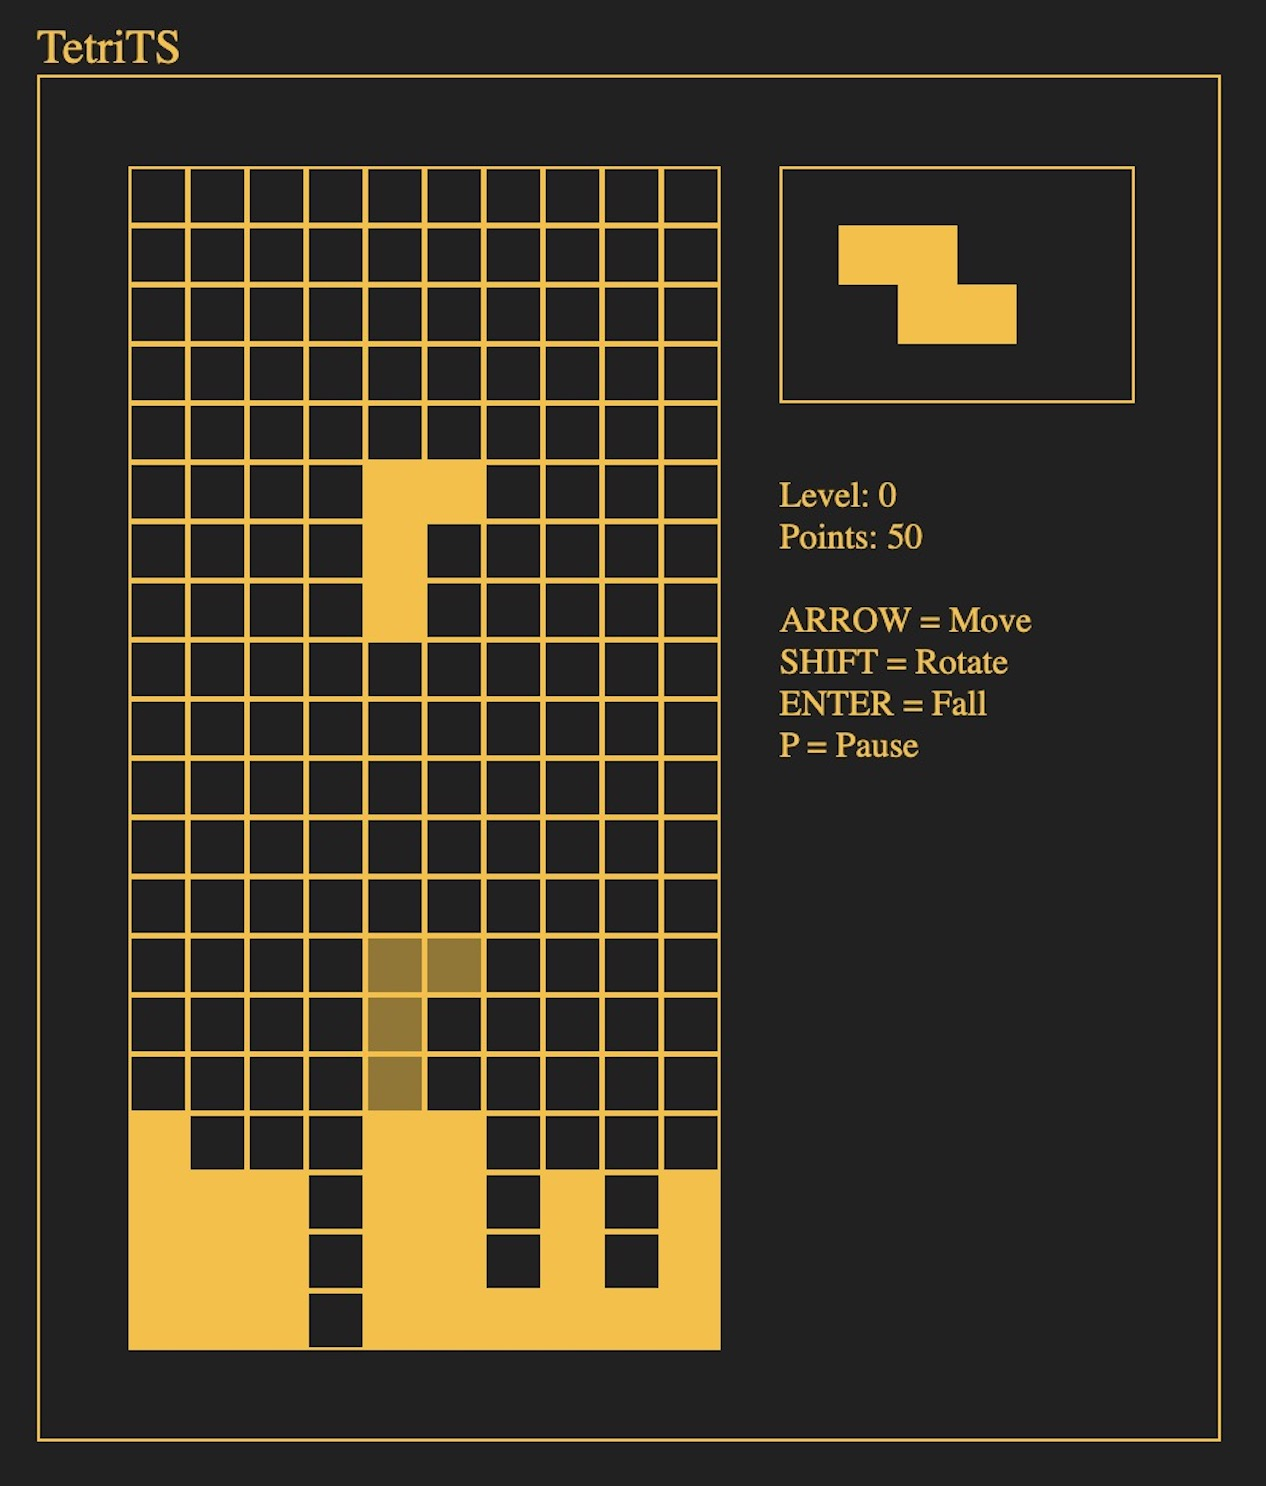
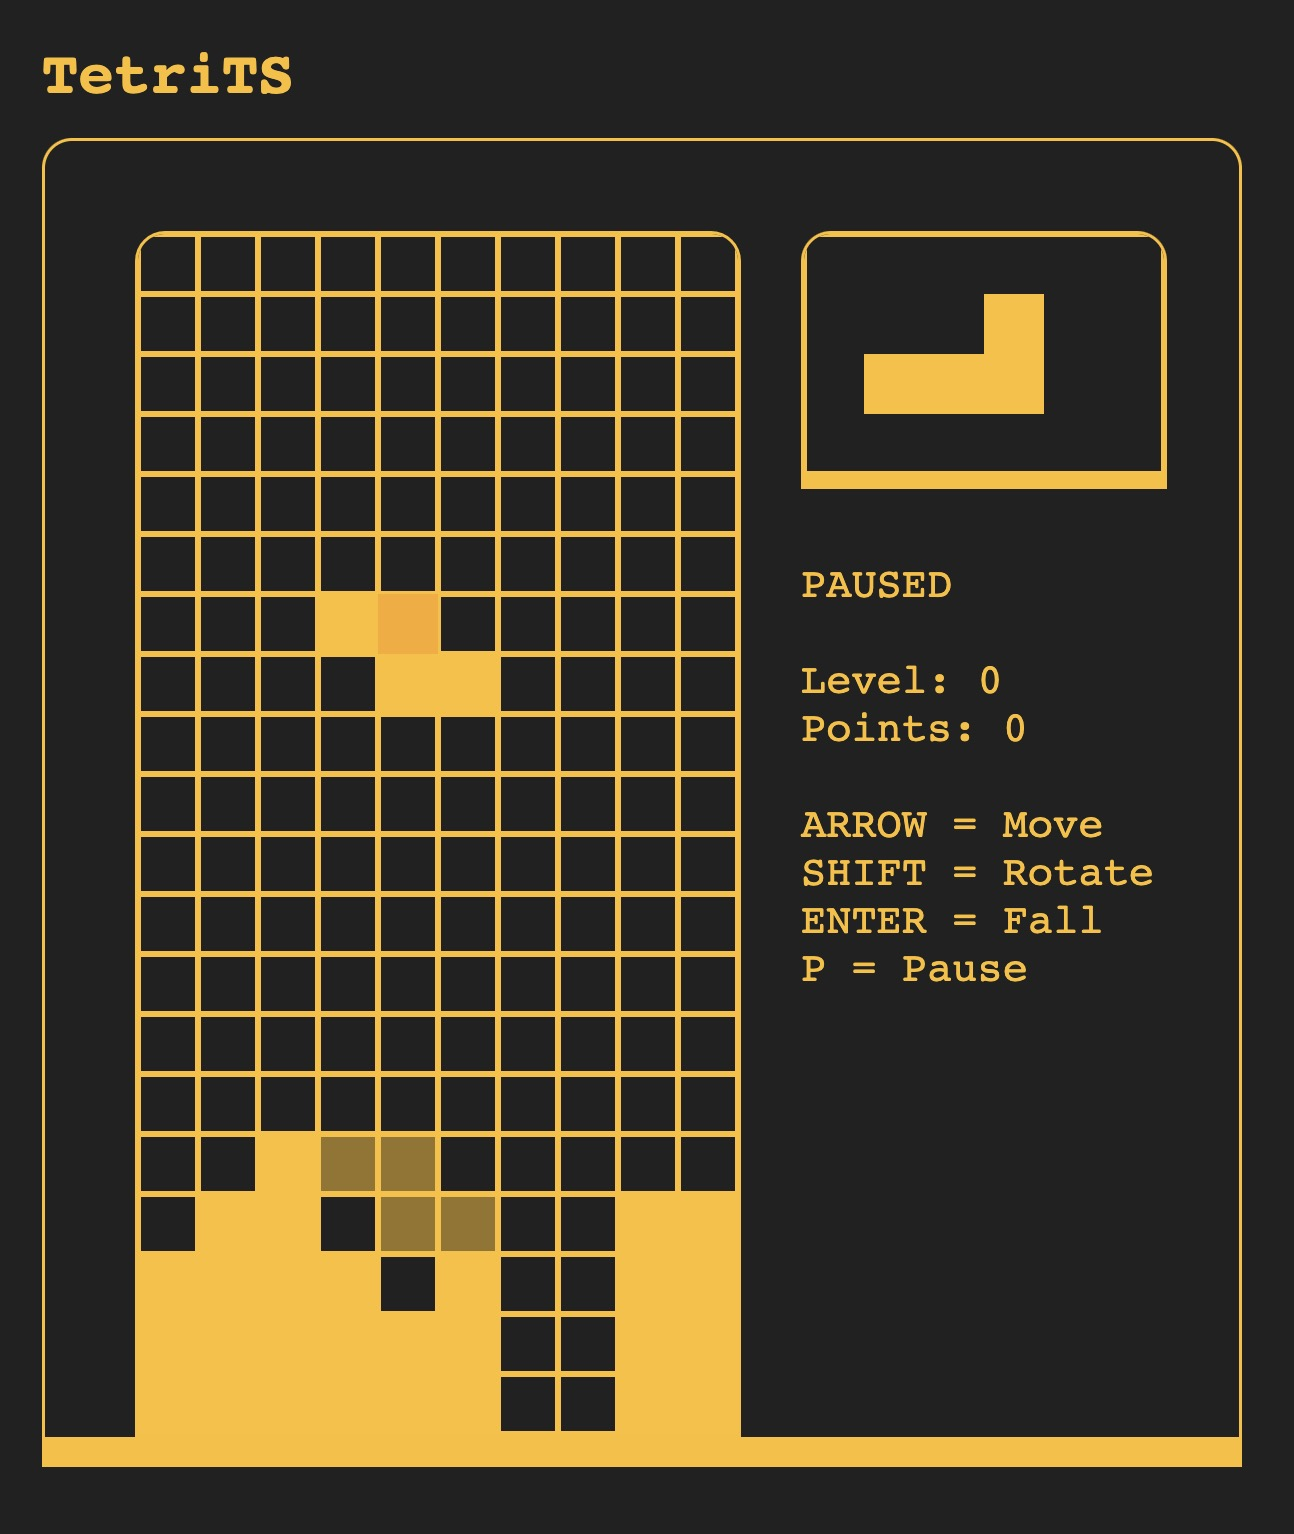
[NO-TICKET] feat: multiple improvements

Changed region(s): [[0.0, 0.0, 0.9858, 0.9906]]

diff --git a/docs/assets/index-a4646ecc.js b/docs/assets/index-a4646ecc.js
@@ -1,0 +1,9 @@
+var R=Object.defineProperty;var D=(s,t,e)=>t in s?R(s,t,{enumerable:!0,configurable:!0,writable:!0,value:e}):s[t]=e;var o=(s,t,e)=>(D(s,typeof t!="symbol"?t+"":t,e),e);(function(){const t=document.createElement("link").relList;if(t&&t.supports&&t.supports("modulepreload"))return;for(const i of document.querySelectorAll('link[rel="modulepreload"]'))r(i);new MutationObserver(i=>{for(const c of i)if(c.type==="childList")for(const d of c.addedNodes)d.tagName==="LINK"&&d.rel==="modulepreload"&&r(d)}).observe(document,{childList:!0,subtree:!0});function e(i){const c={};return i.integrity&&(c.integrity=i.integrity),i.referrerPolicy&&(c.referrerPolicy=i.referrerPolicy),i.crossOrigin==="use-credentials"?c.credentials="include":i.crossOrigin==="anonymous"?c.credentials="omit":c.credentials="same-origin",c}function r(i){if(i.ep)return;i.ep=!0;const c=e(i);fetch(i.href,c)}})();class l{}o(l,"infoBox",document.getElementById("infoBox")),o(l,"boardCanvas",document.getElementById("boardCanvas")),o(l,"UICanvas",document.getElementById("UICanvas")),o(l,"buttonLeft",document.getElementById("buttonLeft")),o(l,"buttonRight",document.getElementById("buttonRight")),o(l,"buttonRotate",document.getElementById("buttonRotate")),o(l,"buttonDown",document.getElementById("buttonDown")),o(l,"mobileControls",document.getElementById("mobileControls"));class w{constructor(){o(this,"isPressed",!1);o(this,"onCurrentFrame",!1)}get isPressedOnCurrentFrame(){return this.isPressed&&this.onCurrentFrame}}class f{static init(){this.isInitiated||(document.addEventListener("keydown",this.handleKeyDown.bind(this)),document.addEventListener("keyup",this.handleKeyUp.bind(this)),l.buttonLeft.addEventListener("touchstart",()=>this.handleTapStart("ArrowLeft")),l.buttonRight.addEventListener("touchstart",()=>this.handleTapStart("ArrowRight")),l.buttonDown.addEventListener("touchstart",()=>this.handleTapStart("ArrowDown")),l.buttonRotate.addEventListener("touchstart",()=>this.handleTapStart("ArrowUp")),l.buttonLeft.addEventListener("mouseup",()=>this.handleTapEnd("ArrowLeft")),l.buttonRight.addEventListener("mouseup",()=>this.handleTapEnd("ArrowRight")),l.buttonDown.addEventListener("mouseup",()=>this.handleTapEnd("ArrowDown")),l.buttonRotate.addEventListener("mouseup",()=>this.handleTapEnd("ArrowUp")),this.isInitiated=!0)}static handleTapStart(t){const e=new KeyboardEvent("keydown",{key:t});this.handleKeyDown(e)}static handleTapEnd(t){const e=new KeyboardEvent("keyup",{key:t});this.handleKeyUp(e)}static handleKeyDown(t){switch(t.key){case"ArrowLeft":{t.preventDefault(),this.left.isPressed=!0,this.left.onCurrentFrame=!0;break}case"ArrowRight":{t.preventDefault(),this.right.isPressed=!0,this.right.onCurrentFrame=!0;break}case"ArrowDown":{t.preventDefault(),this.down.isPressed=!0,this.down.onCurrentFrame=!0;break}case"ArrowUp":case"Shift":{t.preventDefault(),this.rotate.isPressed=!0,this.rotate.onCurrentFrame=!0;break}case"Enter":{t.preventDefault(),this.enter.isPressed=!0,this.enter.onCurrentFrame=!0;break}case"P":case"p":{t.preventDefault(),this.pause.isPressed=!0,this.pause.onCurrentFrame=!0;break}}}static handleKeyUp(t){switch(t.key){case"ArrowLeft":{t.preventDefault(),this.left.isPressed=!1,this.left.onCurrentFrame=!0;break}case"ArrowRight":{t.preventDefault(),this.right.isPressed=!1,this.right.onCurrentFrame=!0;break}case"ArrowDown":{t.preventDefault(),this.down.isPressed=!1,this.down.onCurrentFrame=!0;break}case"ArrowUp":case"Shift":{t.preventDefault(),this.rotate.isPressed=!1,this.rotate.onCurrentFrame=!0;break}case"Enter":{t.preventDefault(),this.enter.isPressed=!1,this.enter.onCurrentFrame=!0;break}case"P":case"p":{t.preventDefault(),this.pause.isPressed=!1,this.pause.onCurrentFrame=!0;break}}}static update(){this.down.onCurrentFrame=!1,this.left.onCurrentFrame=!1,this.right.onCurrentFrame=!1,this.rotate.onCurrentFrame=!1,this.pause.onCurrentFrame=!1,this.enter.onCurrentFrame=!1}}o(f,"isInitiated",!1),o(f,"enter",new w),o(f,"down",new w),o(f,"left",new w),o(f,"right",new w),o(f,"rotate",new w),o(f,"pause",new w);function P(s){return JSON.parse(JSON.stringify(s))}function F(s,t){return Math.floor(Math.random()*(t-s+1)+s)}function y(s,t){const e=[];for(let r=0;r<t;r++){const i=Array(s).fill(0);e.push(i)}return e}var g=(s=>(s.T="T",s.S="S",s.L="L",s.S_INVERTED="T_INVERTED",s.L_INVERTED="L_INVERTED",s.SQUARE="SQUARE",s.LINE="LINE",s))(g||{});class T{constructor(t){o(this,"x",4);o(this,"y",0);o(this,"matrix",y(4,3));o(this,"id");this.matrix=P(t.matrix),this.id=t.id}get width(){return this.matrix[0].length}get height(){return this.matrix.length}getBlockData(t,e){return this.matrix[e][t]}getPivotCoords(t=this.matrix){for(let e=0;e<t.length;e++)for(let r=0;r<t[e].length;r++)if(t[e][r]===2)return{x:r,y:e};throw new Error("Pivot not found")}rotate(t){if(this.id===g.SQUARE)return;const e={x:this.x,y:this.y},r=this.matrix,i=r[0].map((b,p)=>r.map(k=>k[p]).reverse()),c=this.getPivotCoords(r),d=this.getPivotCoords(i);this.x+=c.x-d.x,this.y+=c.y-d.y,this.matrix=i;for(let b=0;b<i.length;b++)if(!(b+this.y<0)){for(let p=0;p<i[b].length;p++)if(i[b][p]&&(this.x+p<0||this.x+p>=t.width||this.y+b>=t.height||t.getBlockData(p+this.x,b+this.y))){this.matrix=r,this.x=e.x,this.y=e.y;return}}}clone(){const t=new T({matrix:this.matrix,id:this.id});return t.x=this.x,t.y=this.y,t}}const E=[{id:g.L,matrix:[[0,0,1],[1,2,1]]},{id:g.L_INVERTED,matrix:[[1,0,0],[1,2,1]]},{id:g.SQUARE,matrix:[[1,1],[2,1]]},{id:g.T,matrix:[[1,2,1],[0,1,0]]},{id:g.S,matrix:[[0,1,1],[1,2,0]]},{id:g.S_INVERTED,matrix:[[1,1,0],[0,2,1]]},{id:g.LINE,matrix:[[1,1,2,1]]}],n={speedMultiplier:10,grid:{width:10,height:20},block:{size:20}},u=class u{static get width(){return this.boardData[0].length}static get height(){return this.boardData.length}static init(){this.canvas.width=n.block.size*n.grid.width,this.canvas.height=n.block.size*n.grid.height,this.context.imageSmoothingEnabled=!1}static render(){this.context.lineWidth=2,this.context.fillStyle="#fcbe24",this.context.strokeStyle="#fcbe24",this.context.clearRect(0,0,this.canvas.width,this.canvas.height);for(let r=0;r<n.grid.height;r++)for(let i=0;i<n.grid.width;i++){const c=i*n.block.size,d=r*n.block.size;u.boardData[r][i]?this.context.fillRect(c,d,n.block.size,n.block.size):this.context.strokeRect(c,d,n.block.size,n.block.size)}const t=u.currentTetromino.getPivotCoords();for(let r=0;r<u.currentTetromino.height;r++)for(let i=0;i<u.currentTetromino.width;i++){if(!u.currentTetromino.getBlockData(i,r))continue;const c=(i+u.currentTetromino.x)*n.block.size,d=(r+u.currentTetromino.y)*n.block.size;this.context.fillStyle=t.x===i&&t.y===r?"#faaa20":"#fcbe24",this.context.fillRect(c,d,n.block.size,n.block.size)}const e=this.currentTetromino.clone();for(;;)if(e.y++,u.hasCollision(e)){e.y--;break}for(let r=0;r<e.height;r++)for(let i=0;i<e.width;i++){if(!e.getBlockData(i,r))continue;const c=(i+e.x)*n.block.size,d=(r+e.y)*n.block.size;this.context.fillStyle="#fcbe2488",this.context.fillRect(c,d,n.block.size,n.block.size)}}static reset(){this.boardData=y(n.grid.width,n.grid.height),this.createNewTetromino()}static hasBlocksInFirstRow(){return this.boardData[0].some(Boolean)}static getRandomTetromino(){const t=F(0,E.length-1);return new T(E[t])}static createNewTetromino(){this.currentTetromino=this.nextTetromino,this.nextTetromino=this.getRandomTetromino()}static getBlockData(t,e){return this.boardData[e][t]}static hasCollision(t=this.currentTetromino){if(t.y+t.height>this.height||t.x<0||t.x+t.width>this.width)return!0;for(let e=0;e<t.height;e++)if(!(e+this.currentTetromino.y<0))for(let r=0;r<t.width;r++){const i=t.x+r,c=t.y+e,d=this.getBlockData(i,c);if(t.getBlockData(r,e)&&d)return!0}return!1}static fixCurrentTetrominoToBoard(){for(let t=0;t<this.currentTetromino.height;t++)for(let e=0;e<this.currentTetromino.width;e++)if(this.currentTetromino.getBlockData(e,t)){const r=this.currentTetromino.x+e,i=this.currentTetromino.y+t;this.boardData[i][r]=1}}static processCompletedRows(){let t=0;for(let e=0;e<this.boardData.length;e++)!this.boardData[e].some(c=>c===0)&&(t++,this.boardData.splice(e,1),this.boardData.unshift([0,0,0,0,0,0,0,0,0,0]));return t}};o(u,"context",l.boardCanvas.getContext("2d")),o(u,"canvas",l.boardCanvas),o(u,"currentTetromino",u.getRandomTetromino()),o(u,"nextTetromino",u.getRandomTetromino()),o(u,"boardData",y(n.grid.width,n.grid.height));let a=u;class x{static init(){this.canvas.width=n.block.size*6,this.canvas.height=n.block.size*4,this.context.imageSmoothingEnabled=!1,this.context.strokeStyle="#fcbe24",this.context.fillStyle="#fcbe24",this.context.lineWidth=2,h.isMobile&&(this.showMobileControls(),this.mobileControls.addEventListener("click",this.hideMobileControls.bind(this)))}static hideMobileControls(){document.body.removeAttribute("preview-controls")}static showMobileControls(){document.body.setAttribute("preview-controls","true")}static render(){this.context.clearRect(0,0,this.canvas.width,this.canvas.height),this.context.strokeRect(0,0,this.canvas.width,this.canvas.height);const t=20,e=20;for(let r=0;r<a.nextTetromino.height;r++)for(let i=0;i<a.nextTetromino.width;i++){if(!a.nextTetromino.matrix[r][i])continue;const c=i*n.block.size+t,d=r*n.block.size+e;this.context.fillRect(c,d,n.block.size,n.block.size)}l.infoBox.innerHTML=`
+     ${h.isPaused?"PAUSED<br/><br/>":""}
+     Level: ${h.level}<br/>
+     Points: ${h.score}<br/><br/>
+     ARROW = Move<br/>
+     SHIFT = Rotate<br/>
+     ENTER = Fall<br/>
+     P = Pause<br/>
+   `}}o(x,"context",l.UICanvas.getContext("2d")),o(x,"mobileControls",l.mobileControls),o(x,"canvas",l.UICanvas);const m=class m{static get level(){return Math.floor(this.speed/5)}static get isMobile(){return window.innerWidth<800}static pause(){this.isPaused=!0}static resume(){this.isPaused=!1}static start(){x.init(),f.init(),a.init(),this.loop(0)}static loop(t){this.update(t),this.render(t),f.update(),requestAnimationFrame(this.boundedLoopMethod)}static onUpdate(t){this.update=t}static onRender(t){this.render=t}};o(m,"score",0),o(m,"speed",0),o(m,"isPaused",!1),o(m,"boundedLoopMethod",m.loop.bind(m)),o(m,"update",()=>{}),o(m,"render",()=>{});let h=m,v=0;function L(s){s-v>1500-h.speed*n.speedMultiplier&&(v=s,a.currentTetromino.y++,a.hasCollision()&&(a.currentTetromino.y--,C()))}function S(s){if(f.enter.isPressedOnCurrentFrame){for(;;)if(a.currentTetromino.y++,a.hasCollision()){a.currentTetromino.y--,C();break}}f.rotate.isPressedOnCurrentFrame&&a.currentTetromino.rotate(a),f.left.isPressedOnCurrentFrame&&(a.currentTetromino.x--,a.hasCollision()&&a.currentTetromino.x++),f.right.isPressedOnCurrentFrame&&(a.currentTetromino.x++,a.hasCollision()&&a.currentTetromino.x--),f.down.isPressedOnCurrentFrame&&(a.currentTetromino.y++,a.hasCollision()?(a.currentTetromino.y--,C()):v=s)}function C(){a.fixCurrentTetrominoToBoard();const s=a.processCompletedRows();s&&(h.score+=s*10,h.speed+=1),a.hasBlocksInFirstRow()&&(a.reset(),h.score=0,h.speed=0),a.createNewTetromino()}h.onUpdate(s=>{f.pause.isPressedOnCurrentFrame&&(h.isPaused?h.resume():h.pause()),!h.isPaused&&(L(s),S(s))});h.onRender(()=>{a.render(),x.render()});h.start();

diff --git a/src/script/entity/tetromino.ts b/src/script/entity/tetromino.ts
@@ -3,45 +3,79 @@ import { cloneMatrix2D, createMatrix2D } from '../helpers'
 import { Matrix2D, TetrominoDescriptor, TetrominoId } from '../types'
 
 export class Tetromino {
-  public constructor(tetrominoData: TetrominoDescriptor) {
-    this.data = cloneMatrix2D(tetrominoData.data)
-    this.id = tetrominoData.id
+  public constructor(tetromino: TetrominoDescriptor) {
+    this.matrix = cloneMatrix2D(tetromino.matrix)
+    this.id = tetromino.id
   }
 
   public x: number = 4
   public y: number = 0
-  public data: Matrix2D = createMatrix2D(4, 3)
+  public matrix: Matrix2D = createMatrix2D(4, 3)
   public id: TetrominoId
 
   public get width(): number {
-    return this.data[0].length
+    return this.matrix[0].length
   }
 
   public get height(): number {
-    return this.data.length
+    return this.matrix.length
   }
 
   public getBlockData(x: number, y: number): number {
-    return this.data[y][x]
+    return this.matrix[y][x]
+  }
+
+  public getPivotCoords(tetrominoData = this.matrix) {
+    for (let y = 0; y < tetrominoData.length; y++) {
+      for (let x = 0; x < tetrominoData[y].length; x++) {
+        if (tetrominoData[y][x] === 2) return { x, y }
+      }
+    }
+    throw new Error('Pivot not found')
   }
 
   public rotate(board: typeof Board): void {
-    const data = this.data[0].map((_, y) => this.data.map((row) => row[y]).reverse())
-    for (let y = 0; y < data.length; y++) {
-      for (let x = 0; x < data[y].length; x++) {
-        // prevent rotations that exeed the edges of the board
-        if (this.x + x >= board.width) return
-        if (this.y + y >= board.height) return
-        // prevent rotations that generate a collision with the board
-        // fixed blocks
-        if (data[y][x] && board.boardData[this.y + y][this.x + x]) return
+    // ignore square tetromino rotation request
+    if (this.id === TetrominoId.SQUARE) return
+
+    const initialCoords = { x: this.x, y: this.y }
+    const initialMatrix = this.matrix
+    // apply 90º rotation
+    const finalMatrix = initialMatrix[0].map((_, y) => initialMatrix.map((row) => row[y]).reverse())
+    // get the difference translate the tetromino position by the difference
+    // between the initial pivot and the final pivot in order to obtain
+    // rotation over pivot point
+    const initialPivotCoords = this.getPivotCoords(initialMatrix)
+    const finalPivotCoords = this.getPivotCoords(finalMatrix)
+    // update data and position
+    this.x += initialPivotCoords.x - finalPivotCoords.x
+    this.y += initialPivotCoords.y - finalPivotCoords.y
+    this.matrix = finalMatrix
+
+    // revert rotations that exceeds the edges of the board or that generate
+    // a collision with the board fixed blocks
+    for (let offsetY = 0; offsetY < finalMatrix.length; offsetY++) {
+      if (offsetY + this.y < 0) continue
+      for (let offsetX = 0; offsetX < finalMatrix[offsetY].length; offsetX++) {
+        if (finalMatrix[offsetY][offsetX]) {
+          if (
+            this.x + offsetX < 0 ||
+            this.x + offsetX >= board.width ||
+            this.y + offsetY >= board.height ||
+            board.getBlockData(offsetX + this.x, offsetY + this.y)
+          ) {
+            this.matrix = initialMatrix
+            this.x = initialCoords.x
+            this.y = initialCoords.y
+            return
+          }
+        }
       }
     }
-    this.data = data
   }
 
   public clone(): Tetromino {
-    const clone = new Tetromino({ data: this.data, id: this.id })
+    const clone = new Tetromino({ matrix: this.matrix, id: this.id })
     clone.x = this.x
     clone.y = this.y
     return clone

diff --git a/src/script/controller/board.ts b/src/script/controller/board.ts
@@ -1,6 +1,6 @@
 import { DOM } from './dom'
 import { Tetromino } from '../entity/tetromino'
-import { tetrominoData } from '../entity/tetromino.data'
+import { tetrominoMap } from '../entity/tetromino.data'
 import { createMatrix2D, randomIntFromInterval } from '../helpers'
 import { config } from '../config'
 import { Matrix2D } from '../types'
@@ -46,11 +46,14 @@ export class Board {
     }
 
     // render current tetromino
+    const pivot = Board.currentTetromino.getPivotCoords()
+
     for (let y = 0; y < Board.currentTetromino.height; y++) {
       for (let x = 0; x < Board.currentTetromino.width; x++) {
         if (!Board.currentTetromino.getBlockData(x, y)) continue
         const cellX = (x + Board.currentTetromino.x) * config.block.size
         const cellY = (y + Board.currentTetromino.y) * config.block.size
+        this.context.fillStyle = pivot.x === x && pivot.y === y ? '#faaa20' : '#fcbe24'
         this.context.fillRect(cellX, cellY, config.block.size, config.block.size)
       }
     }
@@ -85,8 +88,8 @@ export class Board {
   }
 
   public static getRandomTetromino(): Tetromino {
-    const tetrominoIndex = randomIntFromInterval(0, tetrominoData.length - 1)
-    return new Tetromino(tetrominoData[tetrominoIndex])
+    const tetrominoIndex = randomIntFromInterval(0, tetrominoMap.length - 1)
+    return new Tetromino(tetrominoMap[tetrominoIndex])
   }
 
   public static createNewTetromino(): void {
@@ -105,6 +108,7 @@ export class Board {
     if (tetromino.x + tetromino.width > this.width) return true
     // check collision between Tetromino and other block already on the board
     for (let offsetY = 0; offsetY < tetromino.height; offsetY++) {
+      if (offsetY + this.currentTetromino.y < 0) continue
       for (let offsetX = 0; offsetX < tetromino.width; offsetX++) {
         const boardX = tetromino.x + offsetX
         const boardY = tetromino.y + offsetY

diff --git a/src/script/entity/tetromino.data.ts b/src/script/entity/tetromino.data.ts
@@ -1,50 +1,58 @@
 import { TetrominoDescriptor, TetrominoId } from '../types'
 
-export const tetrominoData: TetrominoDescriptor[] = [
+/**
+ *
+ * 0=> empty slot
+ * 1=> block slot
+ * 2=> pivot slot (with block)
+ *
+ */
+
+export const tetrominoMap: TetrominoDescriptor[] = [
   {
     id: TetrominoId.L,
-    data: [
+    matrix: [
       [0, 0, 1],
-      [1, 1, 1],
+      [1, 2, 1],
     ],
   },
   {
     id: TetrominoId.L_INVERTED,
-    data: [
+    matrix: [
       [1, 0, 0],
-      [1, 1, 1],
+      [1, 2, 1],
     ],
   },
   {
     id: TetrominoId.SQUARE,
-    data: [
+    matrix: [
       [1, 1],
-      [1, 1],
+      [2, 1],
     ],
   },
   {
     id: TetrominoId.T,
-    data: [
+    matrix: [
+      [1, 2, 1],
       [0, 1, 0],
-      [1, 1, 1],
     ],
   },
   {
     id: TetrominoId.S,
-    data: [
+    matrix: [
       [0, 1, 1],
-      [1, 1, 0],
+      [1, 2, 0],
     ],
   },
   {
     id: TetrominoId.S_INVERTED,
-    data: [
+    matrix: [
       [1, 1, 0],
-      [0, 1, 1],
+      [0, 2, 1],
     ],
   },
   {
     id: TetrominoId.LINE,
-    data: [[1, 1, 1, 1]],
+    matrix: [[1, 1, 2, 1]],
   },
 ]

diff --git a/src/script/controller/ui.ts b/src/script/controller/ui.ts
@@ -38,7 +38,7 @@ export class UI {
     const offsetY = 20
     for (let y = 0; y < Board.nextTetromino.height; y++) {
       for (let x = 0; x < Board.nextTetromino.width; x++) {
-        if (!Board.nextTetromino.data[y][x]) continue
+        if (!Board.nextTetromino.matrix[y][x]) continue
         const cellX = x * config.block.size + offsetX
         const cellY = y * config.block.size + offsetY
         this.context.fillRect(cellX, cellY, config.block.size, config.block.size)

diff --git a/docs/index.html b/docs/index.html
@@ -9,7 +9,7 @@
     
     
     <link rel="icon" type="image/x-icon" href="/tetrits/assets/favicon-31faa980.ico" />
-    <script type="module" crossorigin src="/tetrits/assets/index-3571c40e.js"></script>
+    <script type="module" crossorigin src="/tetrits/assets/index-a4646ecc.js"></script>
     <link rel="stylesheet" href="/tetrits/assets/index-6320182f.css">
   </head>
   <body>

diff --git a/src/script/index.ts b/src/script/index.ts
@@ -6,7 +6,6 @@ import { handleTetrominoFall, handleUserInput } from './loop/update'
 
 Game.onUpdate((delta: number) => {
   if (Input.pause.isPressedOnCurrentFrame) Game.isPaused ? Game.resume() : Game.pause()
-
   if (Game.isPaused) return
   handleTetrominoFall(delta)
   handleUserInput(delta)

diff --git a/src/script/types/index.ts b/src/script/types/index.ts
@@ -12,5 +12,5 @@ export enum TetrominoId {
 
 export interface TetrominoDescriptor {
   id: TetrominoId
-  data: Matrix2D
+  matrix: Matrix2D
 }

diff --git a/README.md b/README.md
@@ -1,6 +1,6 @@
 # tetrits
 
-Basic browser-based implementation of the Tetris game, using Typescript, with no external dependencies.
+Basic browser-based implementation of the classic Tetris game mechanics, using Typescript, with no external dependencies.
 
 > Try it here: https://colxi.info/tetrits/
 
@@ -15,21 +15,21 @@ pnpm i
 pnpm dev
 ```
 
-## Features :
+## Features & characteristics :
 
 - Compact: 16Kb
 - Keyboard control
-- Block movement
-- Block rotation
-- Block projection
+- Tactile control (mobile)
+- Tetromino movement
+- Tetromino rotation (with pivot)
+- Tetromino projection
+- Fast Tetromino drop
 - Basic scoring system
 - Basic leveling system
 - Pause/resume
 
 # Pending features
 
-- Wall kick
-- Rotate using custom pivot point
 - Multiple rotation directions
 - Use standard scoring system
-- Include several modern Tetris features
+- Include modern game-genre mechanics features (Eg: wall-kick)
